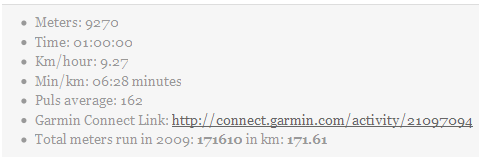
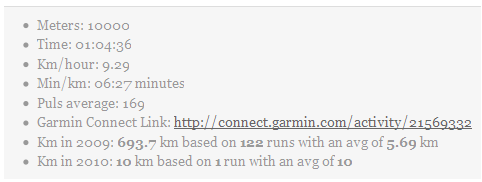
git-svn-id: https://plugins.svn.wordpress.org/runners-log/trunk@189324 b8457f37-d9ea-0310-8a92-e5e31aec5664

Changed region(s): [[0.0311, 0.2025, 0.9959, 0.9367], [0.0, 0.0253, 1.0, 0.0506], [0.0311, 0.1013, 0.2801, 0.1772]]

diff --git a/runnerslog.php b/runnerslog.php
@@ -5,7 +5,7 @@ Plugin URI: http://wordpress.org/extend/plugins/runners-log/
 Description: This plugin let your convert your blog into a training log. Based on 4 custom fields it let you calculate your speed, time per km, and let you have a chart of your total distance and minutes per month.
 Author: Frederik Liljefred
 Author URI: http://www.liljefred.dk
-Version: 1.0.5
+Version: 1.0.6
 License: GPL v2 - http://www.gnu.org/licenses/old-licenses/gpl-2.0.html
 Requires WordPress 2.7 or later.
 
@@ -22,30 +22,30 @@ Requires WordPress 2.7 or later.
 == I only want my graphs to show up in a special category ==
 If you only want your graphs to show up in the category "training" with the category ID = 6 then use it like this eg in single.php:
 
-<?php if ( in_category('6') ): ?>
-<?php runners_log_basic(); ?>
-<?php runners_log_graph(); ?>
-<?php runners_log_graphmini_km(); ?>
-<?php runners_log_graphmini_hours(); ?>
-<?php runners_log_pie_km(); ?>
-<?php runners_log_pie_hours(); ?>
-<?php runners_log_bar_km(); ?>
-<?php runners_log_bar_hours(); ?>
-<?php endif; ?>
+	<?php if ( in_category('6') ): ?>
+	<?php runners_log_basic(); ?>
+	<?php runners_log_graph(); ?>
+	<?php runners_log_graphmini_km(); ?>
+	<?php runners_log_graphmini_hours(); ?>
+	<?php runners_log_pie_km(); ?>
+	<?php runners_log_pie_hours(); ?>
+	<?php runners_log_bar_km(); ?>
+	<?php runners_log_bar_hours(); ?>
+	<?php endif; ?>
 
 == I only want my graphs to show up in a special page ==
 If you only want your graphs to show up in the page with the name "Training Stats" then use it like this eg. in page.php:
 BE WARE: <?php runners_log_basic(); ?> only works in categories
 
-<?php if (is_page('Training Stats')) { ?>
-<?php runners_log_graph(); ?>
-<?php runners_log_graphmini_km(); ?>
-<?php runners_log_graphmini_hours(); ?>
-<?php runners_log_pie_km(); ?>
-<?php runners_log_pie_hours(); ?>
-<?php runners_log_bar_km(); ?>
-<?php runners_log_bar_hours(); ?>
-<?php } ?>
+	<?php if (is_page('Training Stats')) { ?>
+	<?php runners_log_graph(); ?>
+	<?php runners_log_graphmini_km(); ?>
+	<?php runners_log_graphmini_hours(); ?>
+	<?php runners_log_pie_km(); ?>
+	<?php runners_log_pie_hours(); ?>
+	<?php runners_log_bar_km(); ?>
+	<?php runners_log_bar_hours(); ?>
+	<?php } ?>
 	
 */
  function runners_log_basic() {
@@ -87,25 +87,49 @@ BE WARE: <?php runners_log_basic(); ?> only works in categories
 
  //Connect to DB and calculate the sum of meters run in 2009
 	$meter_sum_2009 = $wpdb->get_var($wpdb->prepare("
-	SELECT SUM($wpdb->postmeta.meta_value) 
+	SELECT SUM($wpdb->postmeta.meta_value)
 	FROM $wpdb->postmeta, $wpdb->posts 
 	WHERE $wpdb->postmeta.meta_key='Meters'
 	AND $wpdb->posts.post_status = 'publish'	
 	AND $wpdb->postmeta.post_id=$wpdb->posts.id  
 	AND year($wpdb->posts.post_date)='2009'"));
  //Convert meters to km
-	$km_sum_2009 = round($meter_sum_2009/1000, 2);
+	$km_sum_2009 = round($meter_sum_2009/1000, 1);
 	
- //Connect to DB and calculate the sum of meters run in 2009
+ //Connect to DB and calculate the number of runs in 2009
+	$number_of_runs_2009 = $wpdb->get_var($wpdb->prepare("
+	SELECT COUNT($wpdb->postmeta.meta_value)
+	FROM $wpdb->postmeta, $wpdb->posts 
+	WHERE $wpdb->postmeta.meta_key='Meters'
+	AND $wpdb->posts.post_status = 'publish'	
+	AND $wpdb->postmeta.post_id=$wpdb->posts.id  
+	AND year($wpdb->posts.post_date)='2009'"));
+	
+ //Calculate the avg km per run in 2009
+	$avg_km_per_run_2009 = ROUND(($meter_sum_2009/1000) / $number_of_runs_2009, 2);
+	
+ //Connect to DB and calculate the sum of meters run in 2010
 	$meter_sum_2010 = $wpdb->get_var($wpdb->prepare("
-	SELECT SUM($wpdb->postmeta.meta_value) 
+	SELECT SUM($wpdb->postmeta.meta_value), COUNT($wpdb->postmeta.meta_value) as numberofrun2010
 	FROM $wpdb->postmeta, $wpdb->posts 
 	WHERE $wpdb->postmeta.meta_key='Meters'
 	AND $wpdb->posts.post_status = 'publish'
 	AND $wpdb->postmeta.post_id=$wpdb->posts.id  
 	AND year($wpdb->posts.post_date)='2010'"));
  //Convert meters to km
-	$km_sum_2010 = round($meter_sum_2010/1000, 2);
+	$km_sum_2010 = round($meter_sum_2010/1000, 1);
+	
+ //Connect to DB and calculate the number of runs in 2010
+	$number_of_runs_2010 = $wpdb->get_var($wpdb->prepare("
+	SELECT COUNT($wpdb->postmeta.meta_value)
+	FROM $wpdb->postmeta, $wpdb->posts 
+	WHERE $wpdb->postmeta.meta_key='Meters'
+	AND $wpdb->posts.post_status = 'publish'	
+	AND $wpdb->postmeta.post_id=$wpdb->posts.id  
+	AND year($wpdb->posts.post_date)='2010'"));
+	
+ //Calculate the avg km per run in 2010
+	$avg_km_per_run_2010 = ROUND(($meter_sum_2010/1000) / $number_of_runs_2010, 2);
 	
  //Print it all
 	echo "<ul class='post-meta'>";
@@ -119,16 +143,19 @@ BE WARE: <?php runners_log_basic(); ?> only works in categories
 	if ($url) {
 	echo "<li><span class='post-meta-key'>Garmin Connect Link:</span> <a href='$url' target='_blank'>$url</a></li>";
 	}
-	if ($km_sum_2009) {
-	echo "<li><span class='post-meta-key'>Total Km run in 2009:</span> <strong>$km_sum_2009</strong></li>";
-	}
-	if ($km_sum_2010) {
-	echo "<li><span class='post-meta-key'>Total Km run in 2010:</span> <strong>$km_sum_2010</strong></li>";
+	if ($km_sum_2009 && $number_of_runs_2009 == 1 ) {
+	echo "<li><span class='post-meta-key'>Km in 2009:</span> <strong>$km_sum_2009</strong> km based on <strong>1</strong> run with an avg of <strong>$km_sum_2009</strong></li>";
+	} else {
+	echo "<li><span class='post-meta-key'>Km in 2009:</span> <strong>$km_sum_2009</strong> km based on <strong>$number_of_runs_2009</strong> runs with an avg of <strong>$avg_km_per_run_2009</strong> km</li>";
+	}	
+	if ($km_sum_2010 && $number_of_runs_2010 == 1 ) {
+	echo "<li><span class='post-meta-key'>Km in 2010:</span> <strong>$km_sum_2010</strong> km based on <strong>1</strong> run with an avg of <strong>$km_sum_2010</strong></li>";
+	} else {
+	echo "<li><span class='post-meta-key'>Km in 2010:</span> <strong>$km_sum_2010</strong> km based on <strong>$number_of_runs_2010</strong> runs with an avg of <strong>$avg_km_per_run_2010</strong> km</li>";
 	}	
 	echo "</ul>";
 //End function runners_log_basic()
  }
-
 
  function runners_log_graph() {
  //Let us include the classes for the graph tool
